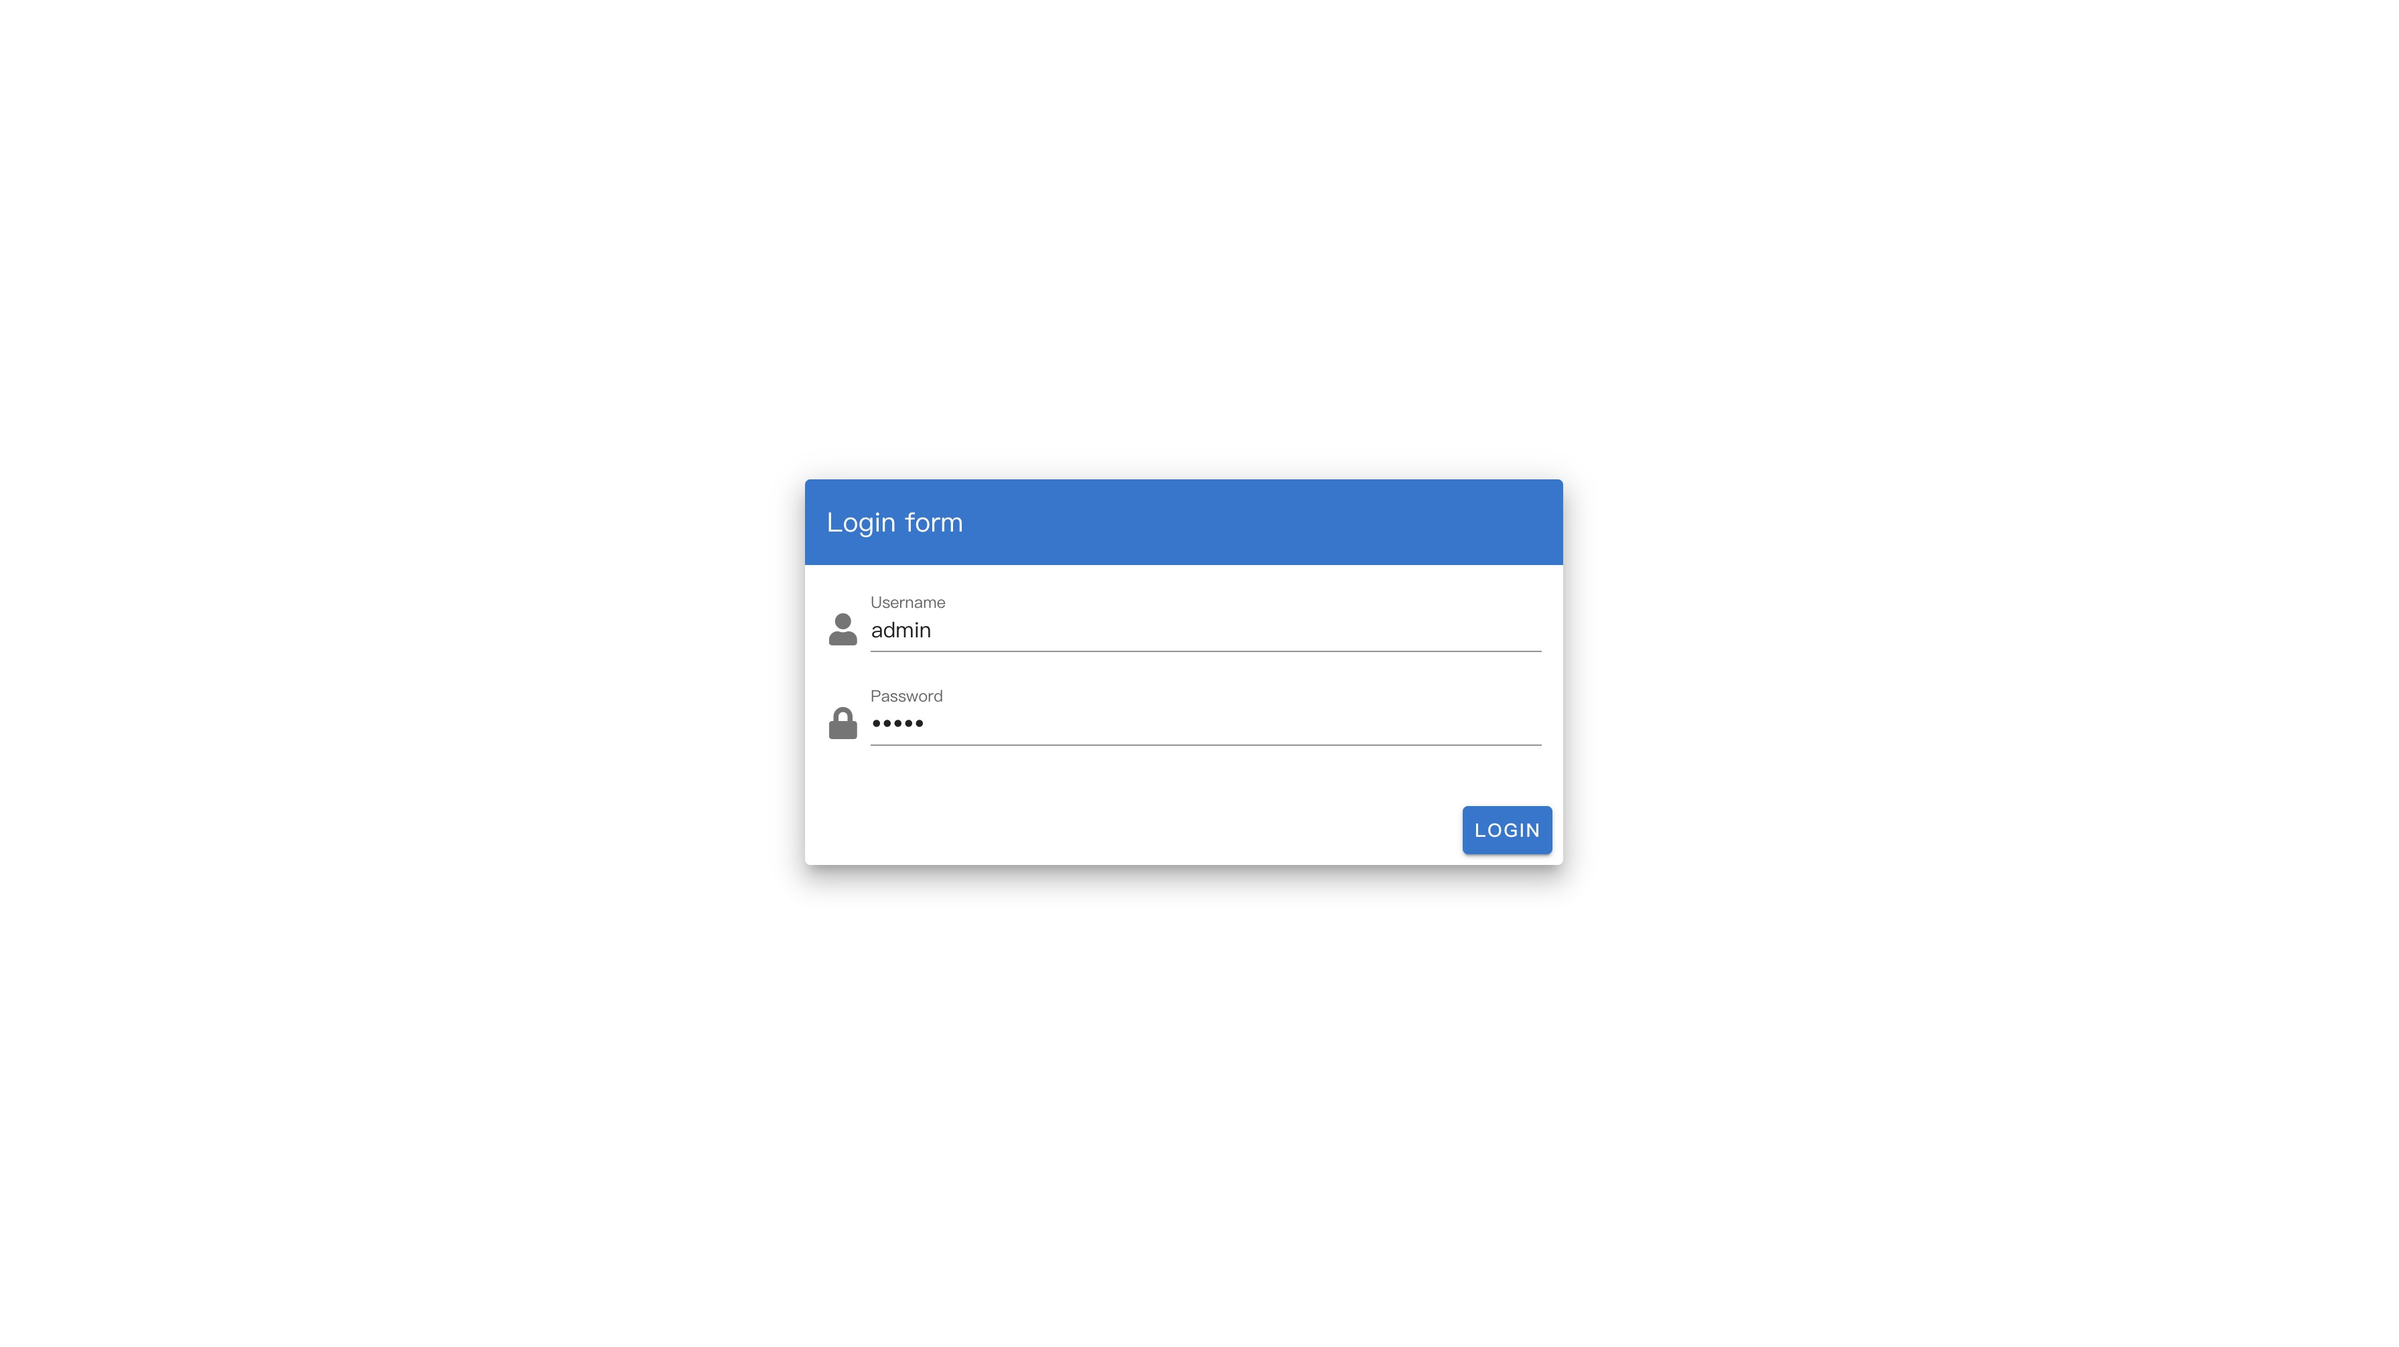
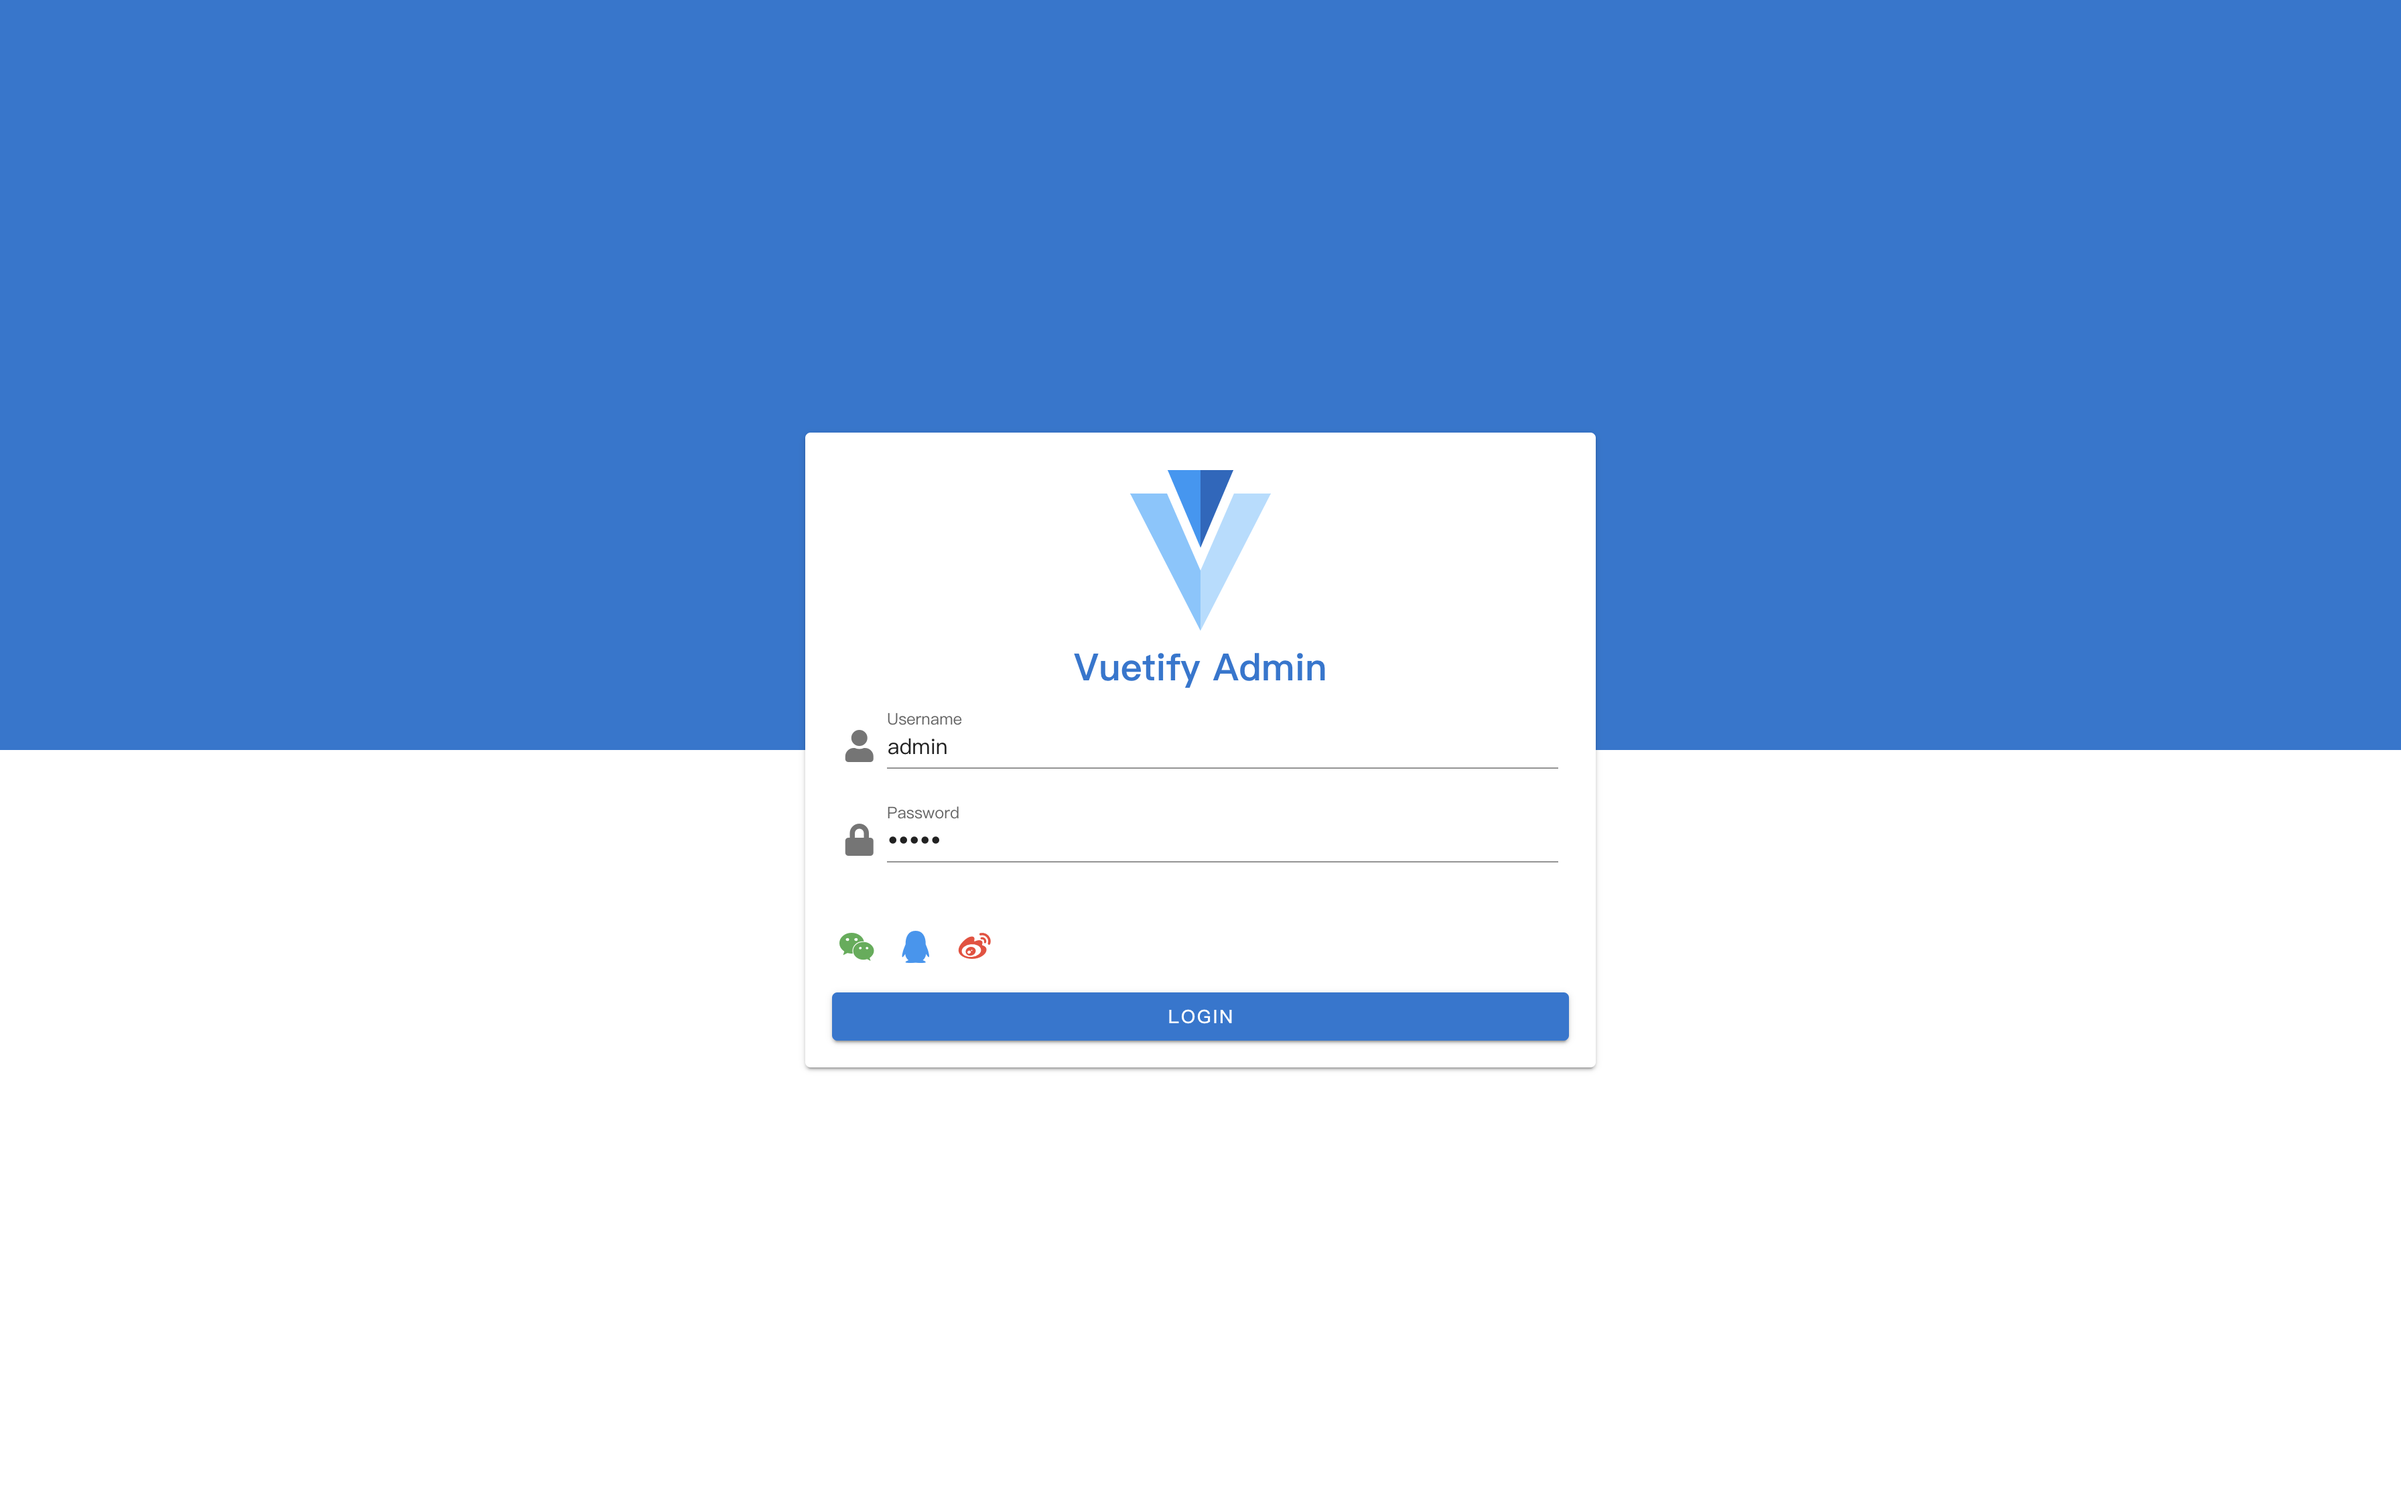
feat: update login view

diff --git a/src/views/login/index.vue b/src/views/login/index.vue
@@ -1,80 +1,79 @@
 <template>
-  <v-content>
-    <v-container
-      class="fill-height"
-      fluid
-    >
-      <v-row
-        align="center"
-        justify="center"
-      >
-        <v-col
-          cols="12"
-          sm="8"
-          md="4"
-        >
-          <v-card class="elevation-12">
-            <v-toolbar
-              color="primary"
-              dark
-              flat
-            >
-              <v-toolbar-title>Login form</v-toolbar-title>
-              <v-spacer />
-            </v-toolbar>
-            <v-card-text>
-              <v-form ref="loginForm" v-model="valid">
-                <v-text-field
-                  v-model="loginForm.username"
-                  :rules="loginRules.username"
-                  label="Username"
-                  name="username"
-                  tabindex="1"
-                  auto-complete="on"
-                  required
-                  prepend-icon="fa-user"
-                  type="text"
-                />
-
-                <v-text-field
-                  id="password"
-                  v-model="loginForm.password"
-                  :rules="loginRules.password"
-                  label="Password"
-                  name="password"
-                  tabindex="2"
-                  auto-complete="on"
-                  required
-                  prepend-icon="fa-lock"
-                  type="password"
-                  @keyup.enter.native="handleLogin"
-                />
-              </v-form>
-            </v-card-text>
-            <v-card-actions>
-              <v-spacer />
-              <v-btn color="primary" :loading="loading" @click.native.prevent="handleLogin">Login</v-btn>
-            </v-card-actions>
-            <v-snackbar
-              v-model="snackbar"
-              :bottom="true"
-              color="error"
-              :timeout="5000"
-            >
-              {{ text }}
-              <v-btn
-                dark
-                text
-                @click="snackbar = false"
+  <v-app class="split-bg primary">
+    <v-content>
+      <v-container fluid fill-height>
+        <v-layout align-center justify-center>
+          <v-flex xs12 sm8 md4 lg4>
+            <v-card class="pa-3">
+              <v-card-text>
+                <div class="layout column align-center">
+                  <img src="@/assets/logo.svg" alt="Vuetify Admin" width="120" height="120">
+                  <h1 class="flex my-4 primary--text">
+                    Vuetify Admin
+                  </h1>
+                </div>
+                <v-form ref="loginForm" v-model="valid">
+                  <v-text-field
+                    v-model="loginForm.username"
+                    :rules="loginRules.username"
+                    prepend-icon="fa-user"
+                    name="username"
+                    label="Username"
+                    tabindex="1"
+                    auto-complete="on"
+                    required
+                    type="text"
+                  />
+                  <v-text-field
+                    id="password"
+                    v-model="loginForm.password"
+                    :rules="loginRules.password"
+                    prepend-icon="fa-lock"
+                    name="password"
+                    label="Password"
+                    type="password"
+                    tabindex="2"
+                    auto-complete="on"
+                    required
+                    @keyup.enter.native="handleLogin"
+                  />
+                </v-form>
+              </v-card-text>
+              <v-card-actions>
+                <v-btn icon>
+                  <v-icon color="green">fab fa-weixin</v-icon>
+                </v-btn>
+                <v-btn icon>
+                  <v-icon color="blue">fab fa-qq</v-icon>
+                </v-btn>
+                <v-btn icon>
+                  <v-icon color="red">fab fa-weibo</v-icon>
+                </v-btn>
+              </v-card-actions>
+              <v-card-actions>
+                <v-btn color="primary" :loading="loading" block @click.native.prevent="handleLogin">Login</v-btn>
+              </v-card-actions>
+              <v-snackbar
+                v-model="snackbar"
+                :top="true"
+                color="error"
+                :timeout="5000"
               >
-                Close
-              </v-btn>
-            </v-snackbar>
-          </v-card>
-        </v-col>
-      </v-row>
-    </v-container>
-  </v-content>
+                {{ text }}
+                <v-btn
+                  dark
+                  text
+                  @click="snackbar = false"
+                >
+                  Close
+                </v-btn>
+              </v-snackbar>
+            </v-card>
+          </v-flex>
+        </v-layout>
+      </v-container>
+    </v-content>
+  </v-app>
 </template>
 
 <script>
@@ -128,3 +127,14 @@ export default {
   }
 };
 </script>
+<style scoped>
+  .split-bg {
+    height: 50%;
+    width: 100%;
+    position: absolute;
+    top: 0;
+    left: 0;
+    content: "";
+    z-index: 0;
+  }
+</style>

diff --git a/src/components/system/Settings.vue b/src/components/system/Settings.vue
@@ -161,12 +161,13 @@ export default {
   watch: {
     themeColor: {
       handler(val) {
+        const theme = this.colors[val].base;
         if (this.$vuetify.theme.dark) {
           // Dark theme
-          this.$vuetify.theme.themes.dark.primary = this.colors[val].base;
+          this.$vuetify.theme.themes.dark.primary = theme;
         } else {
           // Light theme
-          this.$vuetify.theme.themes.light.primary = this.colors[val].base;
+          this.$vuetify.theme.themes.light.primary = theme;
         }
       },
       immediate: true
@@ -178,7 +179,7 @@ export default {
     },
     i18nBarOption: {
       handler(lang) {
-        if (this.$i18n.locale !== lang) { this.$i18n.locale = lang }
+        if (this.$i18n.locale !== lang && lang) { this.$i18n.locale = lang }
       }
     }
   }

diff --git a/src/store/getters.js b/src/store/getters.js
@@ -1,6 +1,9 @@
 const getters = {
   miniVariant: state => state.app.miniVariant,
   showSettings: state => state.settings.showSettings,
+  theme: state => state.settings.theme,
+  logo: state => state.settings.logo,
+  lang: state => state.settings.lang,
   device: state => state.app.device,
   token: state => state.user.token,
   avatar: state => state.user.userInfo.avatar,
